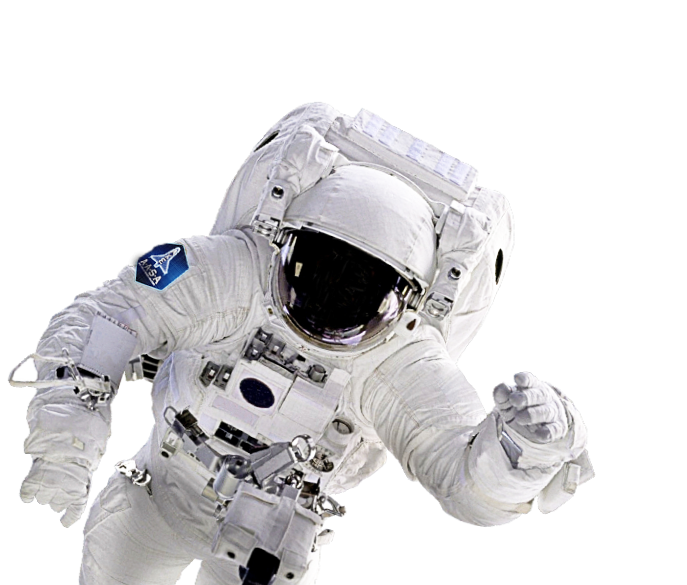
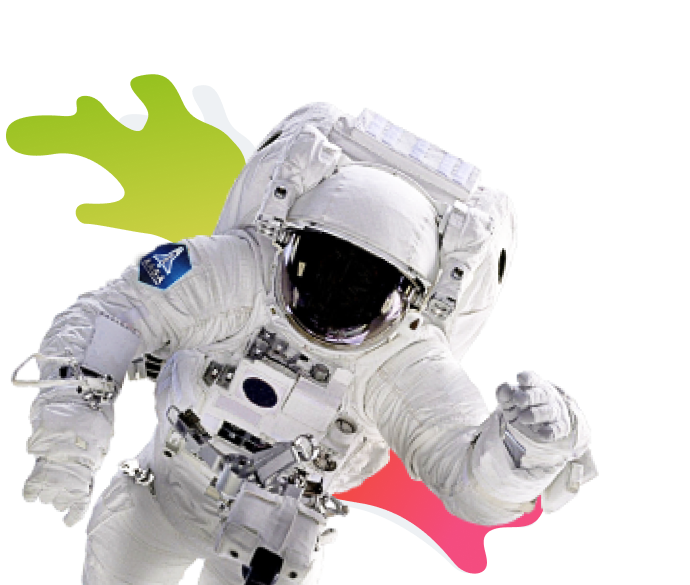
gagarin adaptive

diff --git a/css/style.css b/css/style.css
@@ -212,7 +212,7 @@ body {
 .logo {
   height: 56px;
   width: 238px;
-  margin-left: 100px;
+  margin-left: 10px;
   background: url('../img/logo.png') center center no-repeat;
   background-size: contain;
   cursor: pointer;
@@ -255,7 +255,7 @@ body {
 
 /* Hero */
 .hero {
-  padding-top: 330px;
+  padding-top: 280px;
   height: 1200px;
   width: 100%;
 }
@@ -497,39 +497,31 @@ body {
 
 /* section more-info */
 .section__more-info {
+  position: relative;
   background: var(--liteblack);
   padding-top: 60px;
+  padding-bottom: 75px;
 }
 
 .more-info__bg {
   position: relative;
-  height: 590px;
+  position: initial;
+  height: auto;
+}
+
+.more-info__img {
+  position: absolute;
+  top: 60px;
+  left: 0;
+  bottom: 0;
+  width: 50%;
 }
 
 .more-info__bg-gagarin {
-  position: absolute;
+  /* position: absolute;
   height: 100%;
-  width: 100%;
+  width: 100%; */
   background: url('../img/gagarin.png') center bottom no-repeat;
-  background-size: contain;
-}
-
-.more-info__bg-grin {
-  position: absolute;
-  width: 350px;
-  height: 400px;
-  top: 20px;
-  background: url('../img/shapeltek1.png') center bottom no-repeat;
-  background-size: contain;
-}
-
-.more-info__bg-pink {
-  position: absolute;
-  height: 208px;
-  width: 270px;
-  bottom: 0;
-  left: 40%;
-  background: url('../img/shapeltek.png') center bottom no-repeat;
   background-size: contain;
 }
 
@@ -811,22 +803,13 @@ body {
 }
 
 /* section project*/
-.section__project {
-  position: relative;
-  padding-bottom: 75px;
-}
-
-.project__bg {
-  position: initial;
-  height: auto;
-}
 
 .more-info__bg-rocket {
-  position: absolute;
+  /* position: absolute;
   top: 60px;
   left: 0;
   bottom: 0;
-  width: 50%;
+  width: 50%; */
   background: url('../img/rocket.svg') left bottom no-repeat;
   background-size: contain;
 }
@@ -964,7 +947,6 @@ body {
 [class*="main-modal"] {
   position: fixed;
   max-width: 650px;
-  opacity: 0;
   visibility: hidden;
   left: 50%;
   top: 50%;
@@ -1080,7 +1062,7 @@ body {
   text-align: center;
 }
 
- .more-info__bg-rocket {
+ .more-info__img {
   filter: brightness(0.5);
  }
 
@@ -1169,6 +1151,10 @@ body {
     padding-top: 200px;
     min-height: 650px;
   } */
+
+  .more-info__bg {
+    height: 195px;
+  }
 
   .menu__list {
     padding: 120px 0 0 50px;
@@ -1271,14 +1257,6 @@ body {
     height: 220px;
   }
 
-  .more-info__bg-pink {
-    width: 180px;
-  }
-
-  .more-info__bg-grin {
-    width: 230px;
-  }
-
   .modal__tel-btn:not(:first-child) {
     margin-top: 20px;
   }
@@ -1341,26 +1319,15 @@ body {
     padding: 30px;
   }
 
-  .more-info__bg {
-    height: 195px;
-  }
-
-  .more-info__bg-pink {
-    top: 70px;
-    width: 70px;
-    height: 100px;
-  }
-
-  .more-info__bg-grin {
-    width: 175px;
-    height: 120px;
-  }
-
   .section__more-info {
     padding-top: 0;
   }
 
-  .project__bg {
+  /* .project__bg {
+    height: 30px;
+  } */
+
+  .more-info__bg {
     height: 30px;
   }
 

diff --git a/index.html b/index.html
@@ -184,20 +184,18 @@
       </div>
     </section>
     <section class="section__more-info">
-      <div class="container">
-        <div class="row">
-          <div class="col-xxl-5">
-            <div class="more-info__bg">
-              <div class="more-info__bg-pink"></div>
-              <div class="more-info__bg-grin"></div>
-              <div class="more-info__bg-gagarin"></div>
-            </div>
-          </div>
-          <div class="col-xxl-7">
+      <div class="col-xxl-5">
+         <div class="more-info__bg">
+           <div class="more-info__img more-info__bg-gagarin"></div>
+         </div>
+      </div>
+       <div class="container">
+         <div class="row justify-content-end">
+           <div class="form__block col-xxl-7">
             <h3 class="section__title more-info__title">Вам нужно
               <span class="main__text_green">больше информации?</span>
             </h3>
-            <form action="https://jsonplaceholder.typicode.com/posts" class="more-info__form">
+             <form action="https://jsonplaceholder.typicode.com/posts" class="more-info__form">
               <p class="ubuntu__text">Заполните простую форму и получите бесплатную консультацию</p>
               <div class="contain__row">
                 <input type="text" name="consult-company" id="consultCompany" placeholder="Наименование компании*" required
@@ -213,11 +211,11 @@
                 </div>
                 <input type="submit" value="Получить бесплатную консультацию" class="btn btn__form">
               </div>
-            </form>
-          </div>
-        </div>
-      </div>
-    </section>
+             </form>
+           </div>
+         </div>
+       </div>
+     </section>
     <section class="section__staff">
       <div class="container">
         <h3 class="staff__title">
@@ -470,10 +468,10 @@
         </div>
       </div>
     </div>
-    <section class="section__more-info section__project">
+    <section class="section__more-info">
      <div class="col-xxl-5">
-        <div class="more-info__bg project__bg">
-          <div class="more-info__bg-rocket"></div>
+        <div class="more-info__bg">
+          <div class="more-info__img more-info__bg-rocket"></div>
         </div>
      </div>
       <div class="container">
